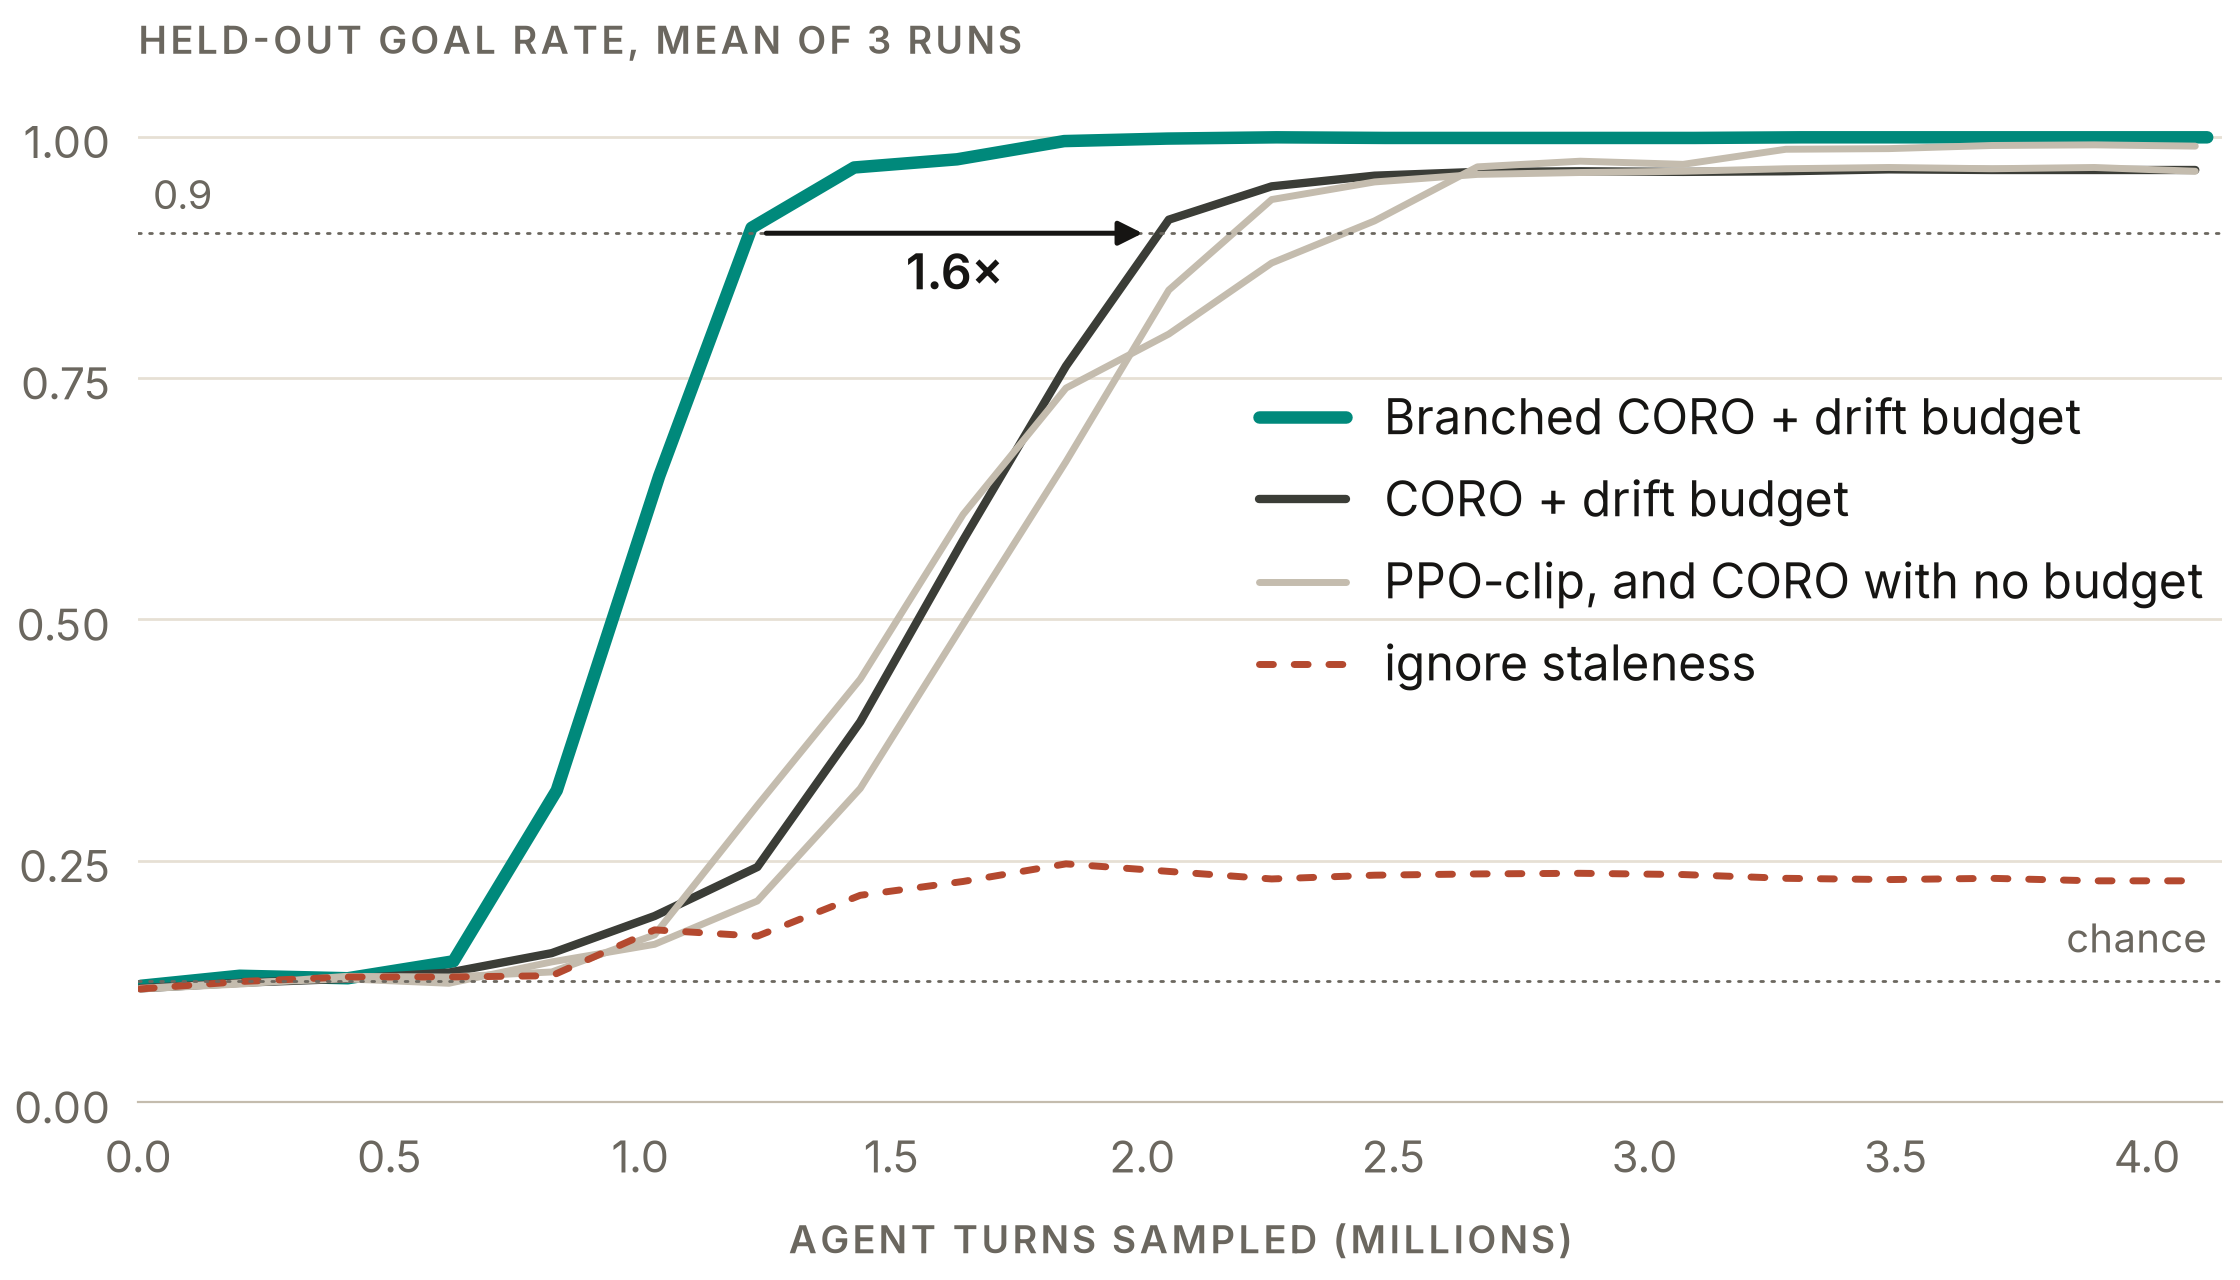
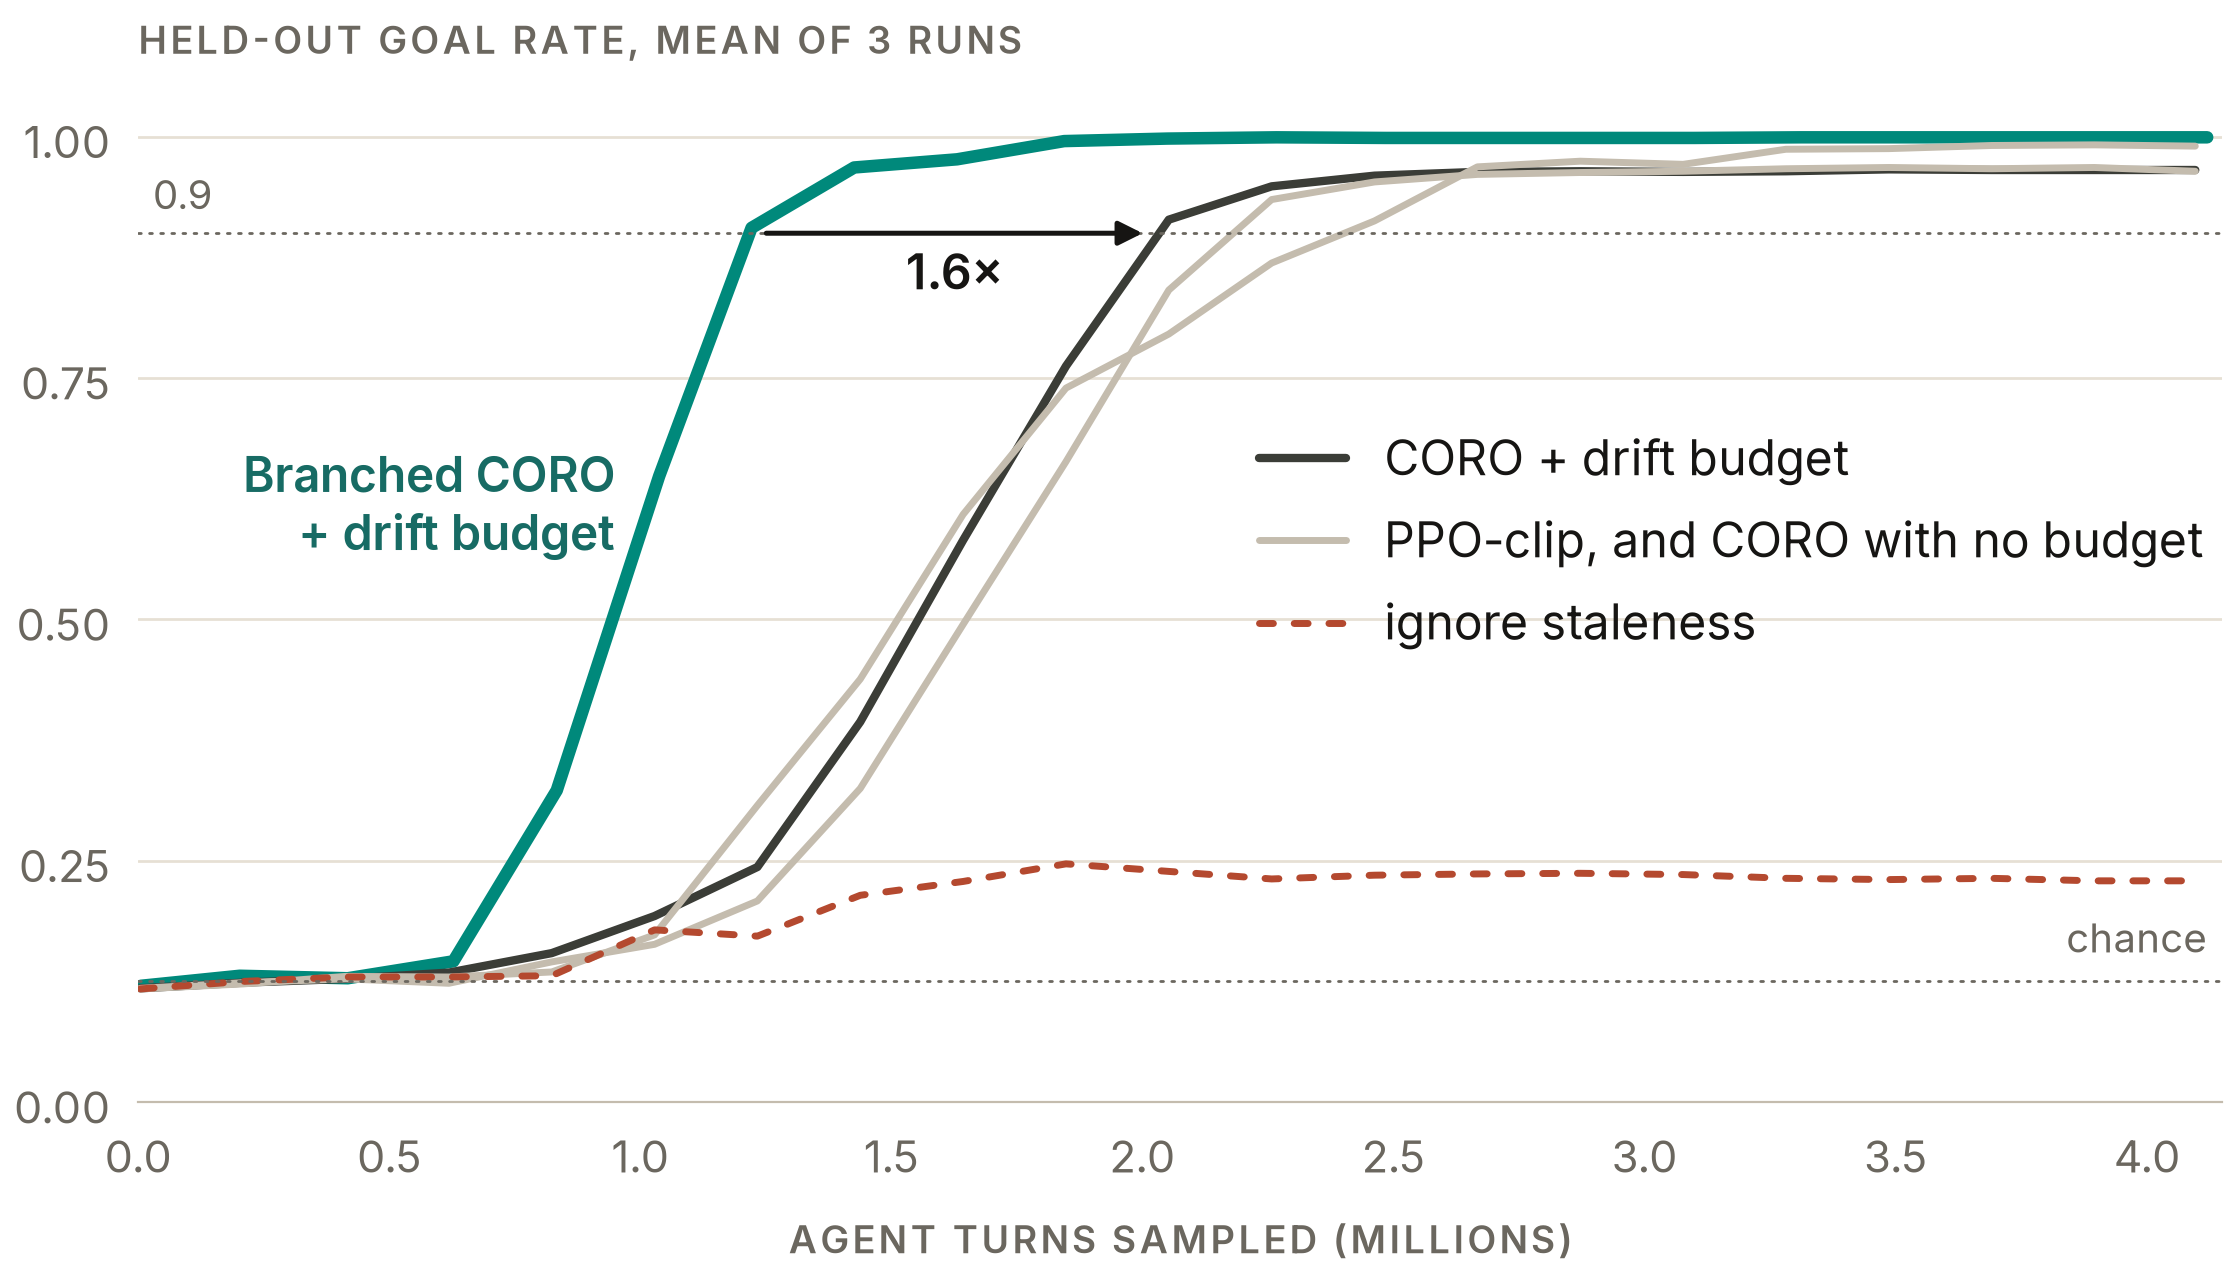
Export talk charts as layers for click-by-click reveals
save_layers() writes each chart whole and split into a base layer plus
named layers on the same canvas (Branched CORO, the 1.6x note, the
failure line, the beta panel), so a slide can stack them and reveal one
per click. The main chart labels Branched CORO directly instead of in
the legend.

Changed region(s): [[0.5625, 0.3125, 1.0, 0.5312], [0.0938, 0.3438, 0.2812, 0.4375]]

diff --git a/talk_figs.py b/talk_figs.py
@@ -24,6 +24,7 @@ for f in Path(os.environ.get("TALK_FONTS", "/nonexistent")).glob("*.ttf"):
 # Branched CORO, rust for failures; axis titles in small spaced capitals
 INK, MUTED, GRID, PAPER = "#161513", "#6B675F", "#E6E0D4", "#F9F6EF"
 TEAL, RUST, DARK, GREY, LIGHT = "#00897B", "#B4492F", "#3B3D37", "#8A847A", "#C4BCAE"
+TEAL_INK = "#176B64"  # teal for text
 PX = 0.72  # points per slide pixel at dpi 100
 plt.rcParams.update({
     "font.family": ["Inter", "DejaVu Sans"], "font.size": 22 * PX, "axes.titlesize": 24 * PX,
@@ -50,7 +51,26 @@ def save(f, name, tight=True):
 
 
 def label(ax, x, y, text, bold=False, **kw):
-    ax.text(x, y, text, color=INK, fontsize=24 * PX, fontweight=600 if bold else 400, va="center", **kw)
+    kw.setdefault("color", INK)
+    return ax.text(x, y, text, fontsize=24 * PX, fontweight=600 if bold else 400, va="center", **kw)
+
+
+def save_layers(f, name, groups, tight=True):
+    """Save the whole figure as name.png, then the same canvas split into layers a slide stacks and reveals one
+    click at a time: name_base.png holds every artist outside the groups, name_<key>.png only that group."""
+    if tight:
+        f.tight_layout(pad=0.4)
+    f.savefig(OUT / f"{name}.png", dpi=200)
+    kids = [c for ax in f.axes for c in ax.get_children()]
+    grouped = {a for arts in groups.values() for a in arts}
+    assert grouped <= set(kids), "a layer artist is not a direct child of an axes"
+    was = {c: c.get_visible() for c in kids}
+    keeps = [("base", lambda c: c not in grouped)] + [(k, (lambda s: lambda c: c in s)(set(v))) for k, v in groups.items()]
+    for key, keep in keeps:
+        for c in kids:
+            c.set_visible(was[c] and keep(c))
+        f.savefig(OUT / f"{name}_{key}.png", dpi=200)
+    plt.close(f)
 
 
 def caps(text):
@@ -111,27 +131,33 @@ def fig_main(runs):
             ("E4_coro_budget", "CORO + drift budget", DARK, "-", 3),
             ("E1_ppo", "PPO-clip, and CORO with no budget", LIGHT, "-", 2.5), ("E3_coro", None, LIGHT, "-", 2.5),
             ("E1b_naive", "ignore staleness", RUST, (0, (2, 3)), 2.5)]
-    cross = {}
+    cross, lines, curve = {}, {}, {}
     for cfg, lab, col, ls, lw in spec:
         xs, ys = zip(*(evals(r) for r in runs[cfg].values()))
         n = min(len(y) for y in ys)
         x, m = xs[0][:n] / 1e6, np.mean([y[:n] for y in ys], 0)
-        ax.plot(x, m, color=col, ls=ls, lw=lw, label=lab)
+        (lines[cfg],) = ax.plot(x, m, color=col, ls=ls, lw=lw, label=lab)
+        curve[cfg] = x, m
         i = np.argmax(m >= 0.9)
         cross[cfg] = x[i - 1] + (0.9 - m[i - 1]) / (m[i] - m[i - 1]) * (x[i] - x[i - 1]) if m.max() >= 0.9 else None
     a, b = cross["E5_tree_budget"], cross["E4_coro_budget"]
-    ax.annotate("", xy=(b, 0.9), xytext=(a, 0.9), arrowprops=dict(arrowstyle="-|>", color=INK, lw=1.8, mutation_scale=18,
-                                                                   shrinkA=6, shrinkB=6))
-    label(ax, (a + b) / 2, 0.86, "1.6×", ha="center", bold=True)
+    arrow = ax.annotate("", xy=(b, 0.9), xytext=(a, 0.9), arrowprops=dict(arrowstyle="-|>", color=INK, lw=1.8,
+                                                                           mutation_scale=18, shrinkA=6, shrinkB=6))
+    gain = label(ax, (a + b) / 2, 0.86, "1.6×", ha="center", bold=True)
+    x5, m5 = curve["E5_tree_budget"]
+    i = np.argmax(m5 >= 0.62)
+    xl = x5[i - 1] + (0.62 - m5[i - 1]) / (m5[i] - m5[i - 1]) * (x5[i] - x5[i - 1])
+    name5 = label(ax, xl - 0.07, 0.62, "Branched CORO\n+ drift budget", ha="right", bold=True, color=TEAL_INK)
     ax.text(0.03, 0.925, "0.9", color=MUTED, fontsize=20 * PX)
     ax.axhline(0.9, color=MUTED, lw=1, ls=(0, (1, 3)))
     ax.axhline(1 / 8, color=MUTED, lw=1, ls=(0, (1, 3)))
     ax.text(4.12, 0.155, "chance", color=MUTED, ha="right", fontsize=20 * PX)
-    ax.legend(loc="center right", bbox_to_anchor=(1.0, 0.56), frameon=False, labelcolor=INK, fontsize=24 * PX,
-              handlelength=1.8, borderaxespad=0)
+    ax.legend(handles=[lines[k] for k in ("E4_coro_budget", "E1_ppo", "E1b_naive")], loc="center right",
+              bbox_to_anchor=(1.0, 0.56), frameon=False, labelcolor=INK, fontsize=24 * PX, handlelength=1.8,
+              borderaxespad=0)
     ax.set(ylim=(0, 1.04), xlim=(0, 4.15), yticks=[0, 0.25, 0.5, 0.75, 1])
     titles(ax, "held-out goal rate, mean of 3 runs", "agent turns sampled (millions)")
-    save(f, "talk_main.png")
+    save_layers(f, "talk_main", {"teal": [lines["E5_tree_budget"], name5], "gain": [arrow, gain]})
 
 
 CONTROL_ROWS = [  # (label, run prefix, family)
@@ -149,8 +175,9 @@ def fig_controls():
     """Updates to 0.9 per seed (dots) and their mean (bar), for Branched CORO, its ablations and the flat controls."""
     f, ax = fig(1664, 560)
     f.subplots_adjust(left=0.36, right=0.90, top=0.97, bottom=0.17)
-    never = 745
+    never, tree = 745, []
     for i, (lab, pre, fam) in enumerate(CONTROL_ROWS):
+        arts = tree if fam == "tree" else []
         col = TEAL if fam == "tree" else GREY
         its = [first_at(read(f"{pre}_s{s}"), "iter") for s in (0, 1, 2)]
         got = [x for x in its if x is not None]
@@ -159,16 +186,17 @@ def fig_controls():
             v = never if x is None else x
             k = jit.setdefault(v, 0)
             jit[v] += 1
-            ax.plot(v, i + (k - 1) * 0.16 if its.count(x) > 1 else i, "o", ms=11, mew=2, mec=PAPER if x else col,
+            arts += ax.plot(v, i + (k - 1) * 0.16 if its.count(x) > 1 else i, "o", ms=11, mew=2, mec=PAPER if x else col,
                     color=col if x else "none", alpha=0.9, zorder=4)
         if len(got) == 3:
-            ax.plot([np.mean(got)] * 2, [i - 0.34, i + 0.34], color=INK, lw=3, zorder=5)
+            arts += ax.plot([np.mean(got)] * 2, [i - 0.34, i + 0.34], color=INK, lw=3, zorder=5)
             txt = f"{np.mean(got):.0f}"
         else:
             txt = f"{len(got)} of 3 runs"
-        ax.text(1.005, i, txt, transform=ax.get_yaxis_transform(), color=INK, va="center",
-                fontsize=24 * PX, fontweight=600 if fam == "tree" else 400)
-        ax.text(-0.02, i, lab, transform=ax.get_yaxis_transform(), color=INK, va="center", ha="right", fontsize=24 * PX)
+        arts.append(ax.text(1.005, i, txt, transform=ax.get_yaxis_transform(), color=INK, va="center",
+                fontsize=24 * PX, fontweight=600 if fam == "tree" else 400))
+        arts.append(ax.text(-0.02, i, lab, transform=ax.get_yaxis_transform(), color=INK, va="center", ha="right",
+                            fontsize=24 * PX))
     ax.axhline(2.5, color=GRID, lw=1.5)
     ax.text(never, 3.42, "never", color=MUTED, ha="center", va="center", fontsize=20 * PX)
     ax.set(ylim=(6.6, -0.6), yticks=[], xlim=(270, 775), xticks=[300, 400, 500, 600, 700])
@@ -176,7 +204,7 @@ def fig_controls():
     ax.grid(axis="y", visible=False)
     ax.spines["bottom"].set_visible(False)
     titles(ax, x="trainer updates to reach a 0.9 goal rate  ·  dots: 3 runs, bar: mean")
-    save(f, "talk_controls.png", tight=False)
+    save_layers(f, "talk_controls", {"teal": tree}, tight=False)
 
 
 def fig_severity():
@@ -184,22 +212,22 @@ def fig_severity():
             [{o: f"sev_q{q}_{o}" for o in ("ppo", "oapl", "coro", "none")} for q in (16, 48)]
     f, ax = fig(1000, 620)
     f.subplots_adjust(left=0.11, right=0.74, top=0.9, bottom=0.15)
-    ends = []
+    ends, arts = [], {}
     for obj, lab, col, mk, ls in [("ppo", "PPO-clip", DARK, "o", "-"), ("oapl", "OAPL", GREY, "s", "-"),
                                   ("coro", "CORO", LIGHT, "D", "-"), ("none", "ignore staleness", RUST, "o", (0, (2, 3)))]:
         v = [[final_goal(n[obj], s) for s in (0, 1, 2)] for n in names]
         means = [np.mean(vs) for vs in v]
-        ax.plot(range(3), means, color=col, lw=3, ls=ls, marker=mk, ms=11, mec=PAPER, mew=2)
-        ends.append((means[-1], lab))
+        arts[obj] = ax.plot(range(3), means, color=col, lw=3, ls=ls, marker=mk, ms=11, mec=PAPER, mew=2)
+        ends.append((means[-1], lab, obj))
     ys = spread([e[0] for e in ends], 0.07, 1.0)
-    for (_, lab), y in zip(ends, ys):
-        label(ax, 2.12, y, lab)
+    for (_, lab, obj), y in zip(ends, ys):
+        arts[obj].append(label(ax, 2.12, y, lab))
     ax.axhline(1 / 8, color=MUTED, lw=1, ls=(0, (1, 3)))
     ax.text(0, 0.155, "chance", color=MUTED, fontsize=20 * PX)
     ax.set_xticks(range(3), ["11", "31", "63"])
     ax.set(ylim=(0, 1.05), xlim=(-0.15, 2.1))
     titles(ax, "final goal rate, mean of 3 runs", "maximum staleness within an episode (trainer updates)")
-    save(f, "talk_severity.png", tight=False)
+    save_layers(f, "talk_severity", {"fail": arts["none"]}, tight=False)
 
 
 def fig_turn_budget():
@@ -231,7 +259,7 @@ def fig_turn_budget():
     a1.text(30, 1.25e-3, "floor", color=MUTED, fontsize=20 * PX)
     a1.set(yscale="log", xlim=(0, 1000), ylim=(7e-4, 0.6))
     titles(a1, "global β, log scale", "trainer updates")
-    save(f, "talk_turn_budget.png", tight=False)
+    save_layers(f, "talk_turn_budget", {"beta": list(a1.get_children())}, tight=False)
 
 
 def fig_beta_sweep():
